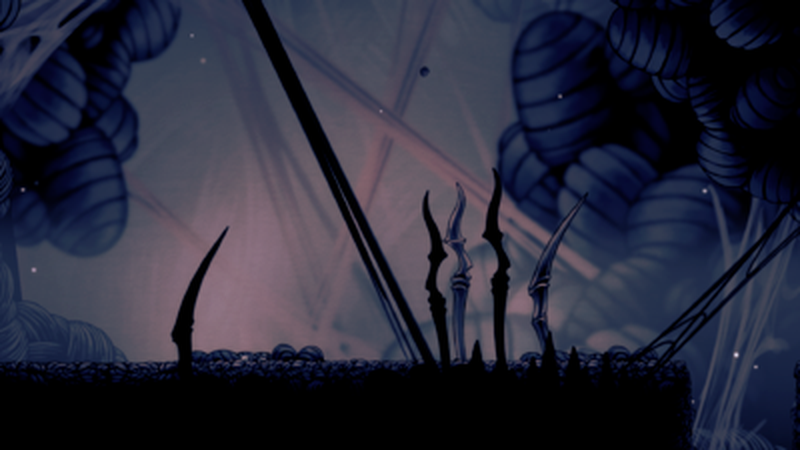
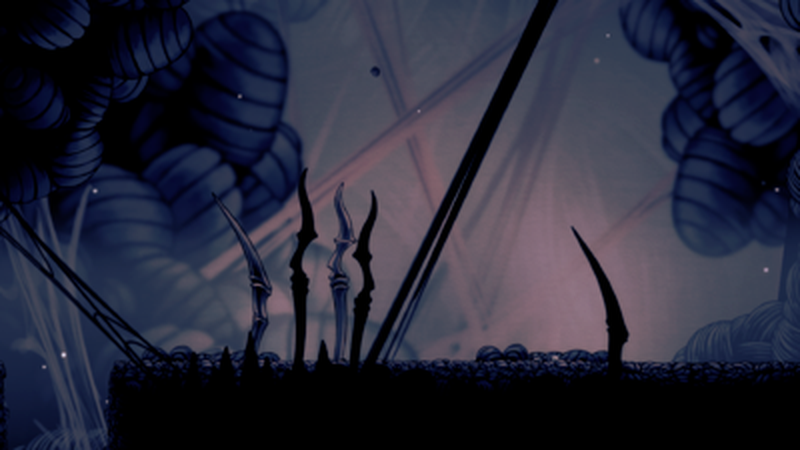
enemies and players can now both die
death mechanics fully work, exploration is pretty much complete, added instruction text.

diff --git a/sketch.js b/sketch.js
@@ -103,10 +103,9 @@ function preload() {//loading images and animations
 }
 
 class Player {
-  constructor(x, y, speed, damage) {
+  constructor(x, y, speed) {
     this.pX = x;
     this.pY = y;
-    this.playerDamage = damage;
     this.playerSpeed = speed;
     this.playerHP = 3;
   }
@@ -116,21 +115,35 @@ class Player {
 
     if (currentBG === 0) {
       this.pY = 305;
+
       if (hasEnemy === false && enemyKilled === false) {
         hasEnemy = true;
-        Jumper = new Enemy(cords.enemyX, cords.enemyY+90, 0, 20);
+        Jumper = new Enemy(cords.enemyX, cords.enemyY+90, 0);
       }
       else if (hasEnemy === true) {
         opponent = "jumper";
         Jumper.enemyUpdate();
       }
-      if (this.pX < 5) {
-        currentBG = 3;
-        this.pX = 840;
+
+      if (enemyKilled === true) {
+        if (this.pX < 60) {
+          enemyKilled = false;
+          currentBG = 3;
+          this.pX = 110;
+        }
+        if (this.pX > 795) {
+          enemyKilled = false;
+          currentBG = 1;
+          this.pX = 15;
+        }
       }
-      if (this.pX > 855) {
-        currentBG = 1;
-        this.pX = 15;
+      else {
+        if (this.pX < 85) {
+          this.pX = 90;
+        }
+        if (this.pX > 795) {
+          this.pX = 790;
+        }
       }
     }
 
@@ -139,10 +152,12 @@ class Player {
       hasEnemy = false;
 
       if (this.pX < 5) {
+        enemyKilled = false;
         currentBG = 0;
         this.pX = 840;
       }
       if (this.pX > 855) {
+        enemyKilled = false;
         currentBG = 2;
         this.pX = 15;
       }
@@ -153,58 +168,96 @@ class Player {
       hasEnemy = false;
 
       if (this.pX < 5) {
+        enemyKilled = false;
         currentBG = 1;
         this.pX = 840;
       }
-      if (this.pX > 855) {
+      if (this.pX > 680) {
+        enemyKilled = false;
         currentBG = 5;
-        this.pX = 15;
+        this.pX = 690;
       }
     }
 
     if (currentBG === 3) {
+      showText();
       this.pY = 355;
-      // if (hasEnemy === false) {
-      //   BigGuy = new Enemy(cords.enemyX, cords.enemyY, 0, 20);
-      //   hasEnemy = true;
-      // }
-      // else if (hasEnemy === true) {
-      //   opponent = "big guy";
-      //   BigGuy.enemyUpdate();
-      // }
+      hasEnemy = false;
 
       if (this.pX > 855) {
+        enemyKilled = false;
         currentBG = 4;
         this.pX = 15;
+      }
+      if (this.pX < 100) {
+        this.pX = 105;
       }
     }
 
     if (currentBG === 4) {
       this.pY = 355;
-      if (this.pX < 5) {
-        currentBG = 3;
-        this.pX = 840;
+
+      if (hasEnemy === false && enemyKilled === false) {
+        BigGuy = new Enemy(cords.enemyX-200, cords.enemyY+170, 0);
+        hasEnemy = true;
       }
-      if (this.pX > 855) {
-        currentBG = 5;
-        this.pX = 15;
+      else if (hasEnemy === true) {
+        opponent = "big guy";
+        BigGuy.enemyUpdate();
+      }
+
+      if (enemyKilled === true) {
+        if (this.pX < 5) {
+          enemyKilled = false;
+          currentBG = 3;
+          this.pX = 840;
+        }
+        if (this.pX > 855) {
+          enemyKilled = false;
+          currentBG = 5;
+          this.pX = 15;
+        }
+      }
+      else {
+        if (this.pX < 5) {
+          this.pX = 10;
+        }
+        if (this.pX > 795) {
+          this.pX = 790;
+        }
       }
     }
 
     if (currentBG === 5) {
       this.pY = 325;
+      showText();
+
       if (hasEnemy === false && enemyKilled === false) {
-        Charger = new Enemy(cords.enemyX, cords.enemyY+120, 0, 25);
+        Charger = new Enemy(cords.enemyX-120, cords.enemyY+120, 0);
         hasEnemy = true;
       }
       else if (hasEnemy === true) {
-        Charger.enemyUpdate();
         opponent = "charger";
+        Charger.enemyUpdate();
       }
     
-      if (this.pX < 5) {
-        currentBG = 4;
-        this.pX = 840;
+      if (enemyKilled === true) {
+        if (this.pX < 5) {
+          enemyKilled = false;
+          currentBG = 4;
+          this.pX = 840;
+        }
+        if (this.pX > 785) {
+          this.pX = 780
+        }
+      }
+      else {
+        if (this.pX < 5) {
+          this.pX = 10;
+        }
+        if (this.pX > 785) {
+          this.pX = 780;
+        }
       }
     }
   }
@@ -341,16 +394,15 @@ class Player {
 }
 
 class Enemy {
-  constructor(x, y, speed, damage) {
+  constructor(x, y, speed) {
     this.eX = x;
     this.eY = y;
     this.enemySpeed = speed;
-    this.enemyDamage = damage;
     this.enemyHP = 3;
   }
 
   enemyMove() {
-    if (this.eX <= 5) {
+    if (this.eX <= 70) {
       enemyDirection = "right";
     }
     if (this.eX >= 795) {
@@ -402,12 +454,11 @@ class Enemy {
 
   enemyDamageTaken() {
     if (isEnemyHit === true) {
-      this.enemyHP -= 1;
+      this.enemyHP -= 0.5;
       gotHit = true;
       isEnemyHit = false;
     }
     if (this.enemyHP < 1) {
-      hasEnemy = false;
       enemyKilled = true;
     }
     if (gotHit === true) {
@@ -419,7 +470,20 @@ class Enemy {
     }
   }
 
+  enemyAttack() {
+    
+  }
+
+  isDead() {
+    if (enemyKilled === true) {
+      hasEnemy = false;
+      opponent = " ";
+    }
+  }
+
   enemyUpdate() {
+    this.isDead();
+    this.enemyAttack();
     this.enemyDamageTaken();
     this.enemyMove();
     this.enemyHitBoxes();
@@ -433,18 +497,21 @@ function setup() {
 }
 
 function draw() {
+  console.log(enemyKilled);
+  console.log(opponent);
   if (state === "startScreen") {
     background(220);
+    showText();
     showButton();
   }
+
   if (state === "characterChoice") {
     background(220);
+    showText();
     Choices();
   }
 
   if (state === "play") {
-    //console.log(this.enemyHP);
-    console.log(dmgCooldownCounter);
     if (character === "LilGuy") {
       hitBoxCheck();
       LilGuy.backGroundChange();
@@ -479,12 +546,12 @@ function mousePressed() {
   }
   if (state === "characterChoice") {//checks which character is chosen
     if (mouseX >= cords.lgX && mouseX <= cords.lgX + lilGuyImg.width*0.2 && mouseY >= cords.lgY && mouseY <= cords.lgY + lilGuyImg.height*0.2) {
-      LilGuy = new Player(cords.lgX, cords.lgY, 5, 25);
+      LilGuy = new Player(cords.lgX, cords.lgY, 5);
       character = "LilGuy";
       state = "play";
     }
     if (mouseX >= cords.hX && mouseX <= cords.hX + hornetImg.width*0.2 && mouseY >= cords.hY && mouseY <= cords.hY + hornetImg.height*0.23) {
-      Hornet = new Player(cords.hX, cords.hY, 9, 15);
+      Hornet = new Player(cords.hX, cords.hY, 9);
       character = "Hornet";
       state = "play";
     }
@@ -522,7 +589,6 @@ function hitBoxCheck() {
       if (character === "LilGuy") {
         if (direction === "left") {
           if (opponent === "jumper") {
-            //isEnemyHit = collideLineCircle(LilGuy.pX+10, LilGuy.pY+30, LilGuy.pX-40, LilGuy.pY+30, Jumper.eX+20, Jumper.eY+20, 20);
             isEnemyHit = collideLineCircle(LilGuy.pX+10, LilGuy.pY+30, LilGuy.pX-40, LilGuy.pY+30, Jumper.eX+20, Jumper.eY+40, 25);
           }
           if (opponent === "charger") {
@@ -547,7 +613,6 @@ function hitBoxCheck() {
       if (character === "Hornet") {
         if (direction === "left") {
           if (opponent === "jumper") {
-            //isEnemyHit = collideLineCircle(LilGuy.pX+10, LilGuy.pY+30, LilGuy.pX-40, LilGuy.pY+30, Jumper.eX+20, Jumper.eY+20, 20);
             isEnemyHit = collideLineCircle(Hornet.pX+15, Hornet.pY+30, Hornet.pX-25, Hornet.pY+30, Jumper.eX+20, Jumper.eY+40, 25);
           }
           if (opponent === "charger") {
@@ -573,3 +638,20 @@ function hitBoxCheck() {
   }
 }
 
+function showText() {
+  if (state === "startScreen") {
+    textSize(25);
+    text("Welcome to my horrible copy of the game Hollow Knight", 80, 30);
+    text("Use A and D to move, F to attack.", 200, 80);
+    textSize(18);
+    text("Explore the rooms, be careful of falling, there are no ladders to get back up.", 70, 300);
+    text("Fight off enemies, don't touch them, they bite! You need to defeat your foe before moving on.", 30, 330);
+  }
+  if (state === "play") {
+    if (currentBG === 3 || currentBG === 5) {
+      textSize(24);
+      fill("white");
+      text("oops... looks like you fell.", 30, 50);
+    }
+  }
+}

diff --git a/proposal.md b/proposal.md
@@ -7,7 +7,7 @@
 - players
     - a choice between two characters with different strengths
 - enemies
-    - enemies to fight while exploring, like a jumping enemy, a charging one.   - different health and damage depending on the enemy.
+    - enemies to fight while exploring, like a jumping enemy, a charging one.
 - multiple rooms to explore
 - attack animations/ability to kill enemies 
 - 3 lives/hits mechanic

diff --git a/index.md b/index.md
@@ -1,0 +1,1 @@
+- [a bad hollow knight copy](bad-hollow-knight-copy) 
